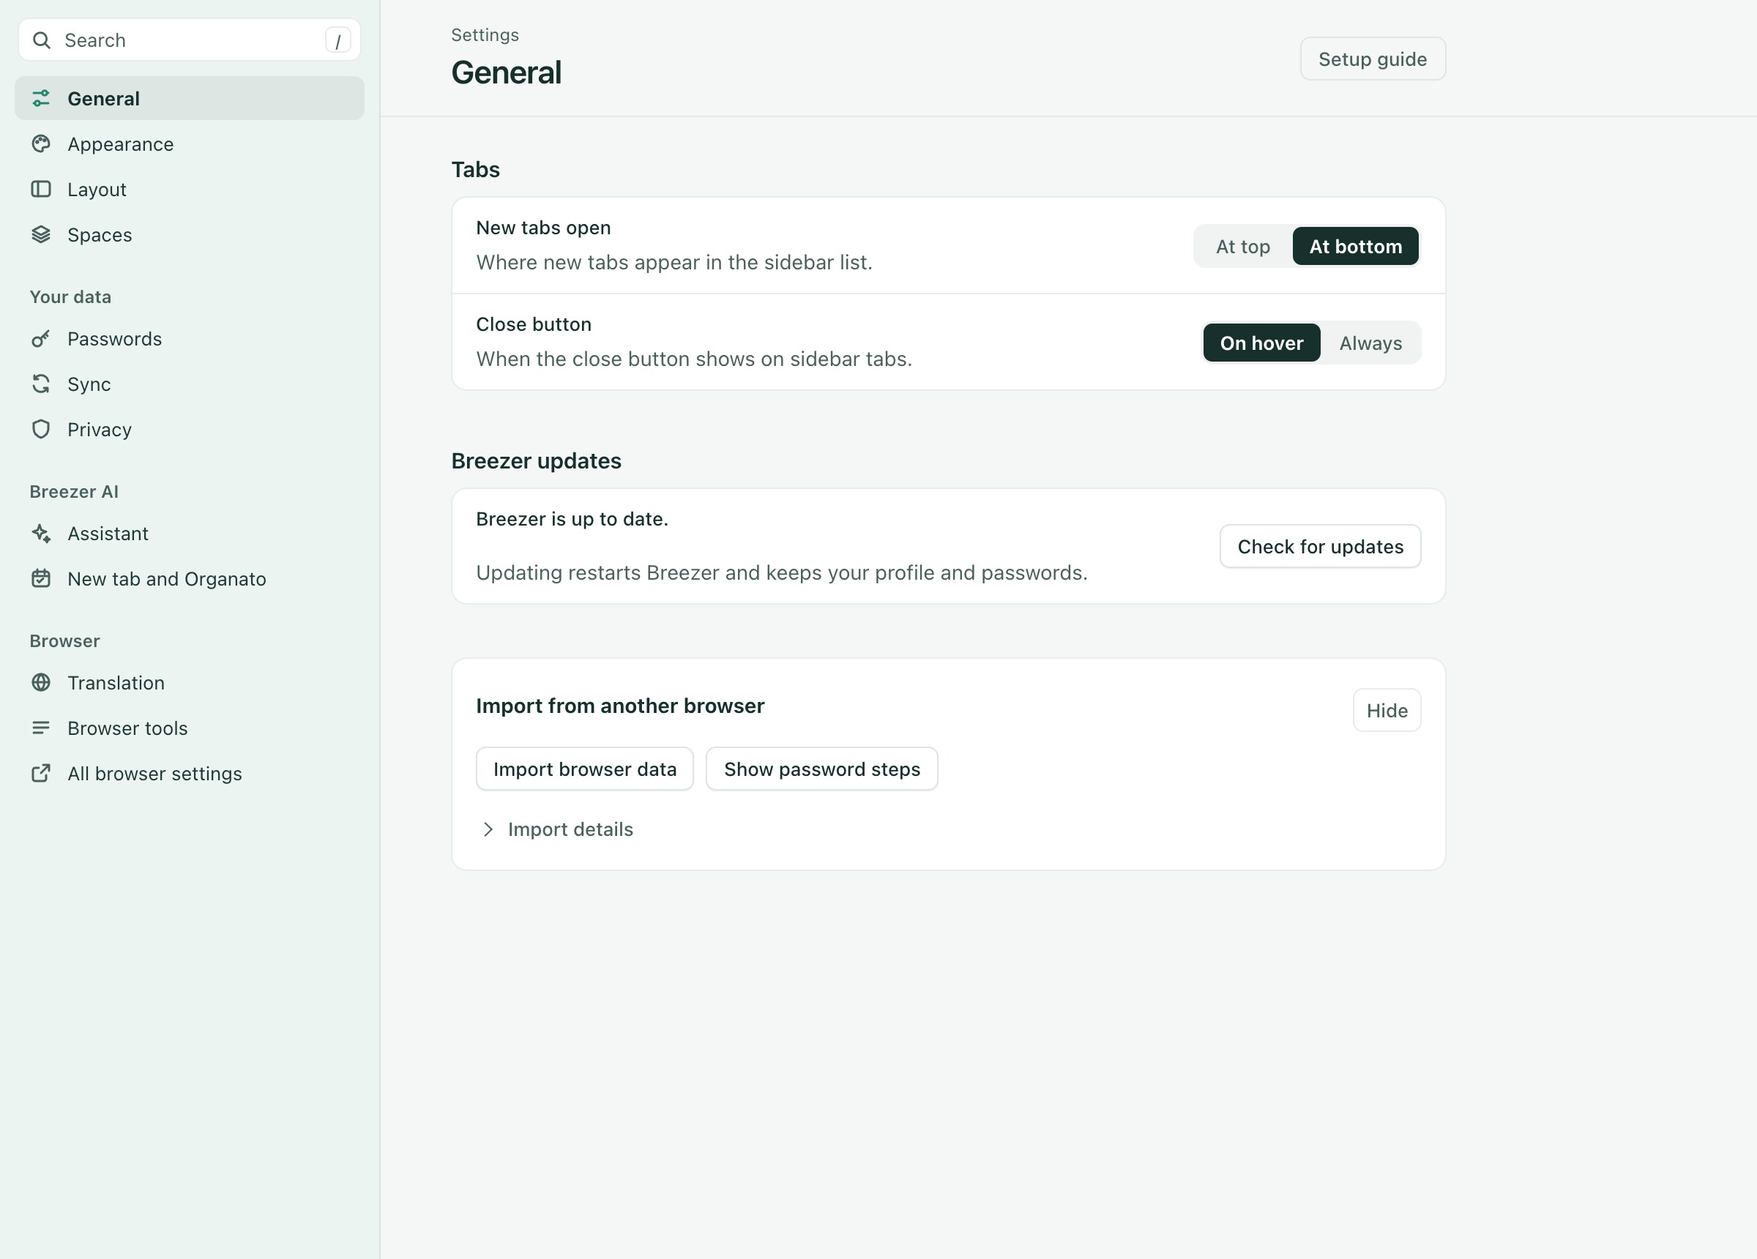
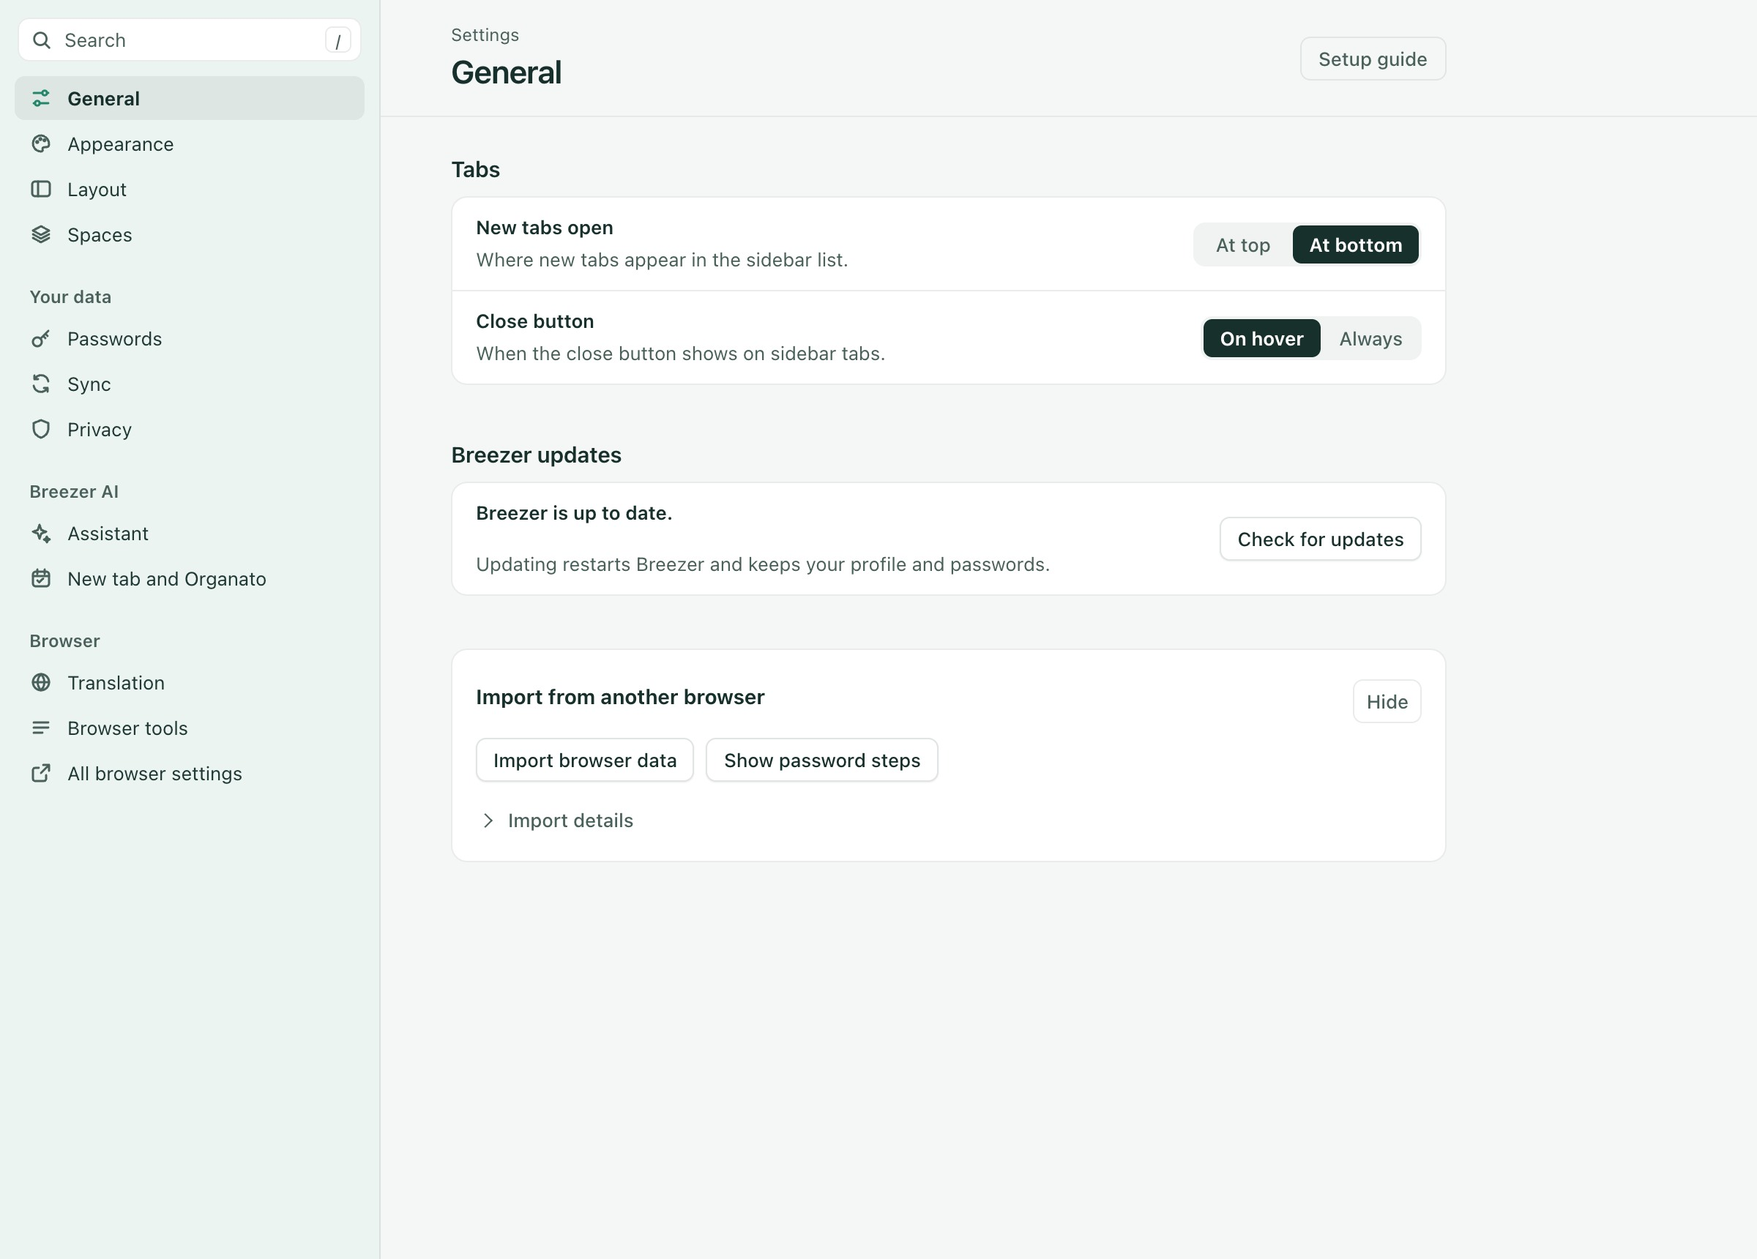
Refine setup, narrow layouts, and release details

diff --git a/features/ai/extension/panel.css b/features/ai/extension/panel.css
@@ -741,8 +741,8 @@ h1 {
   white-space: nowrap;
 }
 
-.control-state { flex: none; width: 23px; height: 14px; padding: 2px; border: 1px solid var(--muted); border-radius: 20px; }
-.control-state::before { content: ""; display: block; width: 8px; height: 8px; border-radius: 50%; background: var(--muted); }
+.control-state { flex: none; width: 27px; height: 16px; padding: 2px; border: 1px solid var(--muted); border-radius: 20px; }
+.control-state::before { content: ""; display: block; width: 10px; height: 10px; border-radius: 50%; background: var(--muted); }
 .control-toggle[aria-pressed=true] .control-state { border-color: var(--accent); background: var(--accent); }
 .control-toggle[aria-pressed=true] .control-state::before { margin-left: auto; background: var(--on-accent); }
 
@@ -750,8 +750,8 @@ h1 {
   background: var(--tint);
   color: var(--accent-ink);
 }
-.control-tip { position: absolute; bottom: calc(100% + 8px); left: 8px; z-index: 6; width: 210px; max-width: calc(100% - 16px); padding: 8px 10px; border-radius: 7px; background: var(--ink); color: var(--canvas); font-size: 12px; line-height: 1.4; font-weight: 400; text-align: left; white-space: normal; pointer-events: none; opacity: 0; visibility: hidden; transition: opacity 100ms ease, visibility 0s; }
-.control-toggle:not([data-tip-dismissed]):is(:hover, :focus-visible) .control-tip { opacity: 1; visibility: visible; transition-delay: 300ms; }
+.control-tip { position: absolute; bottom: calc(100% + 8px); left: 8px; z-index: 6; width: 210px; max-width: calc(100% - 16px); padding: 8px 10px; border-radius: 7px; background: var(--ink); color: var(--canvas); font-size: 12px; line-height: 1.4; font-weight: 400; text-align: left; white-space: normal; pointer-events: none; visibility: hidden; transition: visibility 0s; }
+.control-toggle:not([data-tip-dismissed]):is(:hover, :focus-visible) .control-tip { visibility: visible; transition-delay: 300ms; }
 .control-toggle:not([data-tip-dismissed]):focus-visible .control-tip { transition-delay: 0s; }
 .control-tip::after { content: ""; position: absolute; width: 8px; height: 8px; background: inherit; bottom: -4px; left: calc(var(--tip-pointer, 50%) - 4px); transform: rotate(45deg); }
 
@@ -809,7 +809,7 @@ h1 {
 .model-preferences > summary:focus-visible { outline-offset: -2px; }
 .model-menu:has(.model-preferences[open]) :is(#refresh-models, #model-options) { display: none; }
 .model-menu:has(.model-preferences[open] #speed-note:not([hidden])) .menu-note { display: none; }
-.panel:has(.model-menu:not([hidden])) .suggestions { visibility: hidden; }
+.panel[data-account-state="ready"]:has(.model-menu:not([hidden])) .welcome { visibility: hidden; }
 .inference-model { grid-column: 1 / -1; margin: 0 0 2px; color: var(--ink); font-size: 15px; line-height: 1.4; font-weight: 600; }
 .model-preferences > summary:hover { background: var(--hover); color: var(--ink); }
 .model-settings { display: grid; grid-template-columns: repeat(auto-fit, minmax(110px, 1fr)); gap: 10px; padding: 8px 5px 4px; }
@@ -1178,7 +1178,7 @@ dialog .privacy-note {
 .research-chips { display:flex; flex-wrap:wrap; gap:6px; margin:0 4px 8px; }
 .research-chips:empty { display:none; }
 .research-chip { max-width:100%; overflow:hidden; text-overflow:ellipsis; white-space:nowrap; border:0; border-radius:7px; padding:4px 8px; background:var(--tint); color:inherit; font:inherit; font-size:12px; cursor:pointer; }
-.research-options { display:flex; flex-direction:column; gap:4px; max-height:min(480px, calc(100dvh - 320px)); overflow:auto; scrollbar-width:thin; scrollbar-gutter:stable; scrollbar-color:var(--muted) var(--tint); }
+.research-options { display:flex; flex-direction:column; gap:4px; min-height:88px; max-height:min(480px, calc(100dvh - 235px)); padding-block:4px; border-block:1px solid var(--hairline); overflow:auto; scrollbar-width:thin; scrollbar-gutter:stable; scrollbar-color:var(--muted) var(--tint); }
 .research-option { display:flex; align-items:center; gap:10px; margin:0; padding:8px; border-radius:8px; cursor:pointer; }
 .research-option:has(input:checked) { background:var(--tint); }
 .research-option:has(input:disabled) { color:var(--muted); cursor:default; }

diff --git a/tests/ai/fixtures/workspace-main-port/main-workspace.css b/tests/ai/fixtures/workspace-main-port/main-workspace.css
@@ -133,8 +133,8 @@ svg { fill: none; stroke: currentColor; stroke-width: 1.5; stroke-linecap: round
 .favorites {
   display: grid;
   grid-template-columns: repeat(4, minmax(0, 1fr));
-  gap: 8px;
-  padding: 10px 10px 6px;
+  gap: 6px;
+  padding: 10px 8px 6px;
 }
 
 .tile {
@@ -146,7 +146,7 @@ svg { fill: none; stroke: currentColor; stroke-width: 1.5; stroke-linecap: round
   align-content: center;
   gap: 4px;
   min-width: 0;
-  padding: 6px 4px;
+  padding: 6px 2px;
   border: 1px solid transparent;
   border-radius: var(--radius-card);
   background: color-mix(in srgb, var(--ink) 4%, transparent);
@@ -170,7 +170,7 @@ svg { fill: none; stroke: currentColor; stroke-width: 1.5; stroke-linecap: round
   border-radius: 50%;
   background: var(--muted);
 }
-.tile:focus-visible { outline-offset: 2px; }
+.tile:focus-visible { outline-color: var(--ink); outline-offset: 2px; }
 .tile .favicon { width: 20px; height: 20px; font-size: 11px; border-radius: 5px; background: color-mix(in srgb, var(--accent) 13%, transparent); color: var(--ink); }
 .tile .favicon:has(img) { background: none; }
 .tile .favicon img { width: 20px; height: 20px; }
@@ -758,7 +758,7 @@ body.route-settings {
 .empty-state { margin: 0; padding: 18px 0; color: var(--muted); }
 .context-settings .setting-row { flex-wrap: nowrap; }
 .setting-group .setting-label > span, .setting-group .setting-label > label,
-.setting-group label.setting-label { font-weight: 500; }
+.setting-group label.setting-label { font-weight: 600; }
 .setting-group .setting-label small { margin-top: 2px; max-width: 62ch; }
 /* Loose content from older components, padded as one block. */
 .setting-group.panel { padding: 6px 16px 14px; }
@@ -833,7 +833,7 @@ body.route-settings {
 .setting-row + .setting-row { border-top: 1px solid var(--line); }
 .setting-label { display: flex; flex-direction: column; gap: 2px; min-width: 0; }
 .setting-label > :first-child { font-weight: 500; }
-.setting-label small { color: var(--muted); font-size: 14px; line-height: 21px; }
+.setting-label small { color: var(--muted); font-size: 13px; line-height: 19px; }
 .muted-row { opacity: 0.55; }
 
 .segmented {
@@ -854,7 +854,7 @@ body.route-settings {
   font-weight: 500;
 }
 .segmented [role="radio"]:hover { color: var(--ink); }
-.segmented [role="radio"][aria-checked="true"] { background: var(--ink); color: var(--set-group); font-weight: 650; }
+.segmented [role="radio"][aria-checked="true"] { background: var(--ink); color: var(--set-group, var(--canvas)); font-weight: 650; }
 [role="radio"][aria-disabled="true"], .switch[aria-disabled="true"] { opacity: 0.5; }
 
 .switch {
@@ -958,6 +958,7 @@ body.route-settings {
 .status-line { display: flex; align-items: center; gap: 8px; margin: 14px 0 0; color: var(--muted); line-height: 19px; max-width: 64ch; }
 .status-line:empty { margin: 0; }
 .update-status { margin: 0; font-size: 13px; font-weight: 650; color: var(--ink); }
+.update-row:has(.update-status[data-state="error"]) small { display: none; }
 #organato-settings:has(#organato-connect:disabled) #organato-status::before,
 #update-settings:has(#update-check:disabled) #update-status::before {
   content: "";

diff --git a/features/ai/extension/settings.css b/features/ai/extension/settings.css
@@ -194,7 +194,7 @@ body.route-settings {
 .empty-state { margin: 0; padding: 18px 0; color: var(--muted); }
 .context-settings .setting-row { flex-wrap: nowrap; }
 .setting-group .setting-label > span, .setting-group .setting-label > label,
-.setting-group label.setting-label { font-weight: 500; }
+.setting-group label.setting-label { font-weight: 600; }
 .setting-group .setting-label small { margin-top: 2px; max-width: 62ch; }
 /* Loose content from older components, padded as one block. */
 .setting-group.panel { padding: 6px 16px 14px; }
@@ -269,7 +269,7 @@ body.route-settings {
 .setting-row + .setting-row { border-top: 1px solid var(--line); }
 .setting-label { display: flex; flex-direction: column; gap: 2px; min-width: 0; }
 .setting-label > :first-child { font-weight: 500; }
-.setting-label small { color: var(--muted); font-size: 14px; line-height: 21px; }
+.setting-label small { color: var(--muted); font-size: 13px; line-height: 19px; }
 .muted-row { opacity: 0.55; }
 
 .segmented {
@@ -290,7 +290,7 @@ body.route-settings {
   font-weight: 500;
 }
 .segmented [role="radio"]:hover { color: var(--ink); }
-.segmented [role="radio"][aria-checked="true"] { background: var(--ink); color: var(--set-group); font-weight: 650; }
+.segmented [role="radio"][aria-checked="true"] { background: var(--ink); color: var(--set-group, var(--canvas)); font-weight: 650; }
 [role="radio"][aria-disabled="true"], .switch[aria-disabled="true"] { opacity: 0.5; }
 
 .switch {
@@ -394,6 +394,7 @@ body.route-settings {
 .status-line { display: flex; align-items: center; gap: 8px; margin: 14px 0 0; color: var(--muted); line-height: 19px; max-width: 64ch; }
 .status-line:empty { margin: 0; }
 .update-status { margin: 0; font-size: 13px; font-weight: 650; color: var(--ink); }
+.update-row:has(.update-status[data-state="error"]) small { display: none; }
 #organato-settings:has(#organato-connect:disabled) #organato-status::before,
 #update-settings:has(#update-check:disabled) #update-status::before {
   content: "";

diff --git a/features/ai/extension/translation.css b/features/ai/extension/translation.css
@@ -41,7 +41,7 @@ button:disabled { opacity: .5; cursor: default; }
 :root[data-scheme="dark"] .primary:not(:disabled) { background: var(--accent); }
 .primary:hover:not(:disabled) { background: color-mix(in srgb, var(--accent) 76%, var(--ink)); }
 :root[data-scheme="dark"] .primary:hover:not(:disabled) { background: color-mix(in srgb, var(--accent) 88%, var(--ink)); }
-:root .primary:disabled { background: var(--hover); color: var(--muted); border-color: transparent; opacity: .65; }
+:root .primary:disabled { background: var(--hover); color: var(--muted); border-color: var(--line); opacity: 1; }
 #status { min-height: 21px; margin: 16px 0 0; overflow-wrap: anywhere; font-size: 14px; }
 #status[data-state="error"] { padding: 10px 12px; border: 1px solid var(--danger-border); border-radius: 8px; background: var(--danger-surface); color: var(--danger); }
 .sharing-details { margin: 16px 0 0 26px; color: var(--muted); font-size: 14px; }
@@ -53,7 +53,7 @@ button:disabled { opacity: .5; cursor: default; }
 @media (max-width: 360px) { .languages { grid-template-columns: minmax(0, 1.15fr) minmax(0, 1fr); gap: 8px; } .languages select { padding-right: 24px; } }
 @media (max-width: 320px) { .languages { grid-template-columns: 1fr; gap: 16px; } }
 .settings-link { margin-top: 20px; color: var(--muted); padding: 0; border: 0; background: none; text-decoration: underline; }
-#languages.reload { min-height: 32px; padding: 4px 0; border: 0; background: none; color: var(--muted); font-size: 13px; text-decoration: underline; }
+#languages.reload { min-height: 32px; padding: 4px 0; border: 0; background: none; color: var(--ink); font-size: 13px; text-decoration: underline; }
 #languages.reload:hover:not(:disabled) { color: var(--ink); }
 :focus-visible { outline: 2px solid var(--focus); outline-offset: 3px; }
 @media (forced-colors: active) { #dynamic { appearance: auto; width: 16px; height: 16px; padding: 0; } #dynamic::before { content: none; } }

diff --git a/features/ai/extension/newtab.css b/features/ai/extension/newtab.css
@@ -451,12 +451,14 @@ a.item-title:hover { text-decoration-color: currentColor; }
 @media (max-width: 560px) {
   .sites { grid-template-columns: repeat(3, minmax(0, 1fr)); }
   .sites { row-gap: 4px; }
-  .site { min-height: 72px; }
-  .site-icon { width: 40px; height: 40px; border-radius: 11px; }
-  .site-link { gap: 4px; padding-block: 6px 4px; }
+  .site { min-height: 66px; }
+  .site-icon { width: 36px; height: 36px; border-radius: 10px; }
+  .site-link { gap: 4px; padding-block: 5px 3px; }
   .today { text-align: center; }
   .sites > .site-add:only-child { grid-column: 1 / -1; justify-self: center; }
-  .sky { --sky-top: clamp(32px, 6vh, 48px); --date-gap: 16px; --date-lines: 2; --shortcuts-height: 320px; }
+  .sky { --sky-top: 56px; --date-gap: 16px; --date-lines: 2; --shortcuts-height: 302px; }
+  .organato-head { flex-direction: column; align-items: flex-start; gap: 6px; }
+  .agenda-actions .refresh { padding-left: 0; }
 }
 #refresh:disabled { opacity: .5; cursor: default; }
 
@@ -484,4 +486,6 @@ a.item-title:hover { text-decoration-color: currentColor; }
 :root[data-artwork="on"] :is(.sky, .sheet) { position: relative; z-index: 2; }
 :root[data-artwork="on"] .settings-link { z-index: 3; }
 :root[data-artwork="on"] .today { text-shadow: 0 1px 14px color-mix(in srgb, var(--canvas) 80%, transparent); }
+:root[data-artwork="on"] .site:not(.placeholder) .site-name { padding-inline: 4px; border-radius: 4px; background: var(--raised); }
+:root[data-artwork="on"] .site-add .site-icon { background: var(--raised); }
 @media (forced-colors: active) { .theme-image, .theme-artwork, .theme-first-frame, :root[data-artwork="on"] body::before { display: none; } }

diff --git a/features/ai/extension/whats-new.html b/features/ai/extension/whats-new.html
@@ -5,7 +5,7 @@
   <meta name="viewport" content="width=device-width,initial-scale=1">
   <meta name="color-scheme" content="light">
   <title>What's new in Breezer</title>
-  <link rel="stylesheet" href="whats-new.css?v=1.3.1">
+  <link rel="stylesheet" href="whats-new.css?v=1.3.5">
 </head>
 <body>
   <svg class="grain" aria-hidden="true" focusable="false"><filter id="grain"><feTurbulence type="fractalNoise" baseFrequency="0.85" numOctaves="2" stitchTiles="stitch"/><feColorMatrix values="0 0 0 0 0.25  0 0 0 0 0.2  0 0 0 0 0.12  0 0 0 0.55 0"/></filter><rect width="100%" height="100%" filter="url(#grain)"/></svg>
@@ -23,11 +23,12 @@
         </defs>
         <path class="breeze-line" pathLength="1" d="M6 78 C 120 30, 210 112, 330 66 S 520 14, 560 54 C 590 84, 552 112, 526 92 C 506 76, 528 46, 566 50 C 596 54, 618 70, 634 64"/>
       </svg>
-      <p class="lede">A new logo and breezer:// pages, folder colors you pick yourself, an assistant that can read your tab and memory counts, and themes made from a sentence or a picture.</p>
+      <p class="lede">Search from New Tab, find favorites by name, and see when Breezer AI can control a page.</p>
       <div class="actions">
         <button class="button primary" type="button" data-action="continue">Continue browsing</button>
         <a class="button secondary" href="workspace.html#/settings">Open Settings</a>
       </div>
+      <p><a href="#patch-135">What changed in 1.3.5</a></p>
     </header>
 
     <nav class="page-index" aria-label="On this page"><a href="#features-title">Highlights</a><a href="#patch-131">1.3.1</a><a href="#patch-135">1.3.5</a><a href="#verification-title">Known limits</a></nav>

diff --git a/features/ai/extension/shortcut-add.js b/features/ai/extension/shortcut-add.js
@@ -5,6 +5,7 @@ export function installShortcutAdder({ api, root, preferences, update }) {
   const input = root.getElementById('shortcut-add-input');
   const list = root.getElementById('shortcut-add-tabs');
   const error = root.getElementById('shortcut-add-error');
+  const status = root.getElementById('shortcut-status');
   const submit = form.querySelector('[type=submit]');
   let tabs = [], shown = [], active = -1, saving = false, revision = 0;
   const focusTile = () => root.querySelector('.site-add-button')?.focus();
@@ -37,7 +38,7 @@ export function installShortcutAdder({ api, root, preferences, update }) {
       await preferences.add({ url, title: site?.title });
       await update();
       form.hidePopover(); focusTile();
-      root.getElementById('shortcut-status').textContent = 'Shortcut added.';
+      status.textContent = 'Shortcut added.';
     } catch (problem) {
       error.textContent = problem.message || 'Could not add shortcut. Try again.';
       error.hidden = false; input.setAttribute('aria-invalid', 'true'); input.focus();
@@ -45,6 +46,7 @@ export function installShortcutAdder({ api, root, preferences, update }) {
   };
   form.addEventListener('beforetoggle', event => {
     if (event.newState !== 'open') return;
+    if (status.textContent === 'Shortcut added.') status.textContent = '';
     input.value = ''; error.hidden = true; input.removeAttribute('aria-invalid');
     tabs = []; paint();
   });

diff --git a/features/ai/extension/workspace.css b/features/ai/extension/workspace.css
@@ -132,8 +132,8 @@ svg { fill: none; stroke: currentColor; stroke-width: 1.5; stroke-linecap: round
 .favorites {
   display: grid;
   grid-template-columns: repeat(4, minmax(0, 1fr));
-  gap: 8px;
-  padding: 10px 10px 6px;
+  gap: 6px;
+  padding: 10px 8px 6px;
 }
 
 .tile {
@@ -145,7 +145,7 @@ svg { fill: none; stroke: currentColor; stroke-width: 1.5; stroke-linecap: round
   align-content: center;
   gap: 4px;
   min-width: 0;
-  padding: 6px 4px;
+  padding: 6px 2px;
   border: 1px solid transparent;
   border-radius: var(--radius-card);
   background: color-mix(in srgb, var(--ink) 4%, transparent);
@@ -169,7 +169,7 @@ svg { fill: none; stroke: currentColor; stroke-width: 1.5; stroke-linecap: round
   border-radius: 50%;
   background: var(--muted);
 }
-.tile:focus-visible { outline-offset: 2px; }
+.tile:focus-visible { outline-color: var(--ink); outline-offset: 2px; }
 .tile .favicon { width: 20px; height: 20px; font-size: 11px; border-radius: 5px; background: color-mix(in srgb, var(--accent) 13%, transparent); color: var(--ink); }
 .tile .favicon:has(img) { background: none; }
 .tile .favicon img { width: 20px; height: 20px; }

diff --git a/features/ai/extension/onboarding.css b/features/ai/extension/onboarding.css
@@ -417,9 +417,13 @@ body.route-welcome { overflow: auto; background: var(--air); }
   .wl-step h1 { font-size: 30px; line-height: 36px; }
 }
 @media (max-width: 560px) {
-  .mini { width: 200px; max-width: 70%; max-height: none; }
+  .mini { order: 0; width: 180px; max-width: 65%; max-height: none; }
+  .wl-stage:has(.wl-step[data-step="welcome"]:not([hidden])) .mini { order: -1; }
   .mini-frame { width: 220%; height: 220%; scale: .454545; transform-origin: top left; }
-  .wl-stage { gap: 16px; padding: 12px 4px; align-content: start; align-items: start; }
+  .wl-stage { gap: 14px; padding: 14px 4px 24px; align-content: start; align-items: start; }
+  .wl-copy { padding-top: 0; }
+  .wl-lede { margin-bottom: 18px; }
+  .wl-choice-art { aspect-ratio: 2; }
   .wl-choices, .wl-swatches { grid-template-columns: 1fr 1fr; }
   .wl-nav { grid-template-columns: auto minmax(0, 1fr) auto; gap: 10px; }
   .wl-nav .wl-progress { justify-self: center; gap: 3px; }

diff --git a/features/ai/extension/whats-new.css b/features/ai/extension/whats-new.css
@@ -914,6 +914,11 @@ body {
   .story-table:not(.story-code-table) tbody th, .story-table:not(.story-code-table) tbody td { display: block; width: auto; padding: 0; border: 0; text-align: left; }
   .story-table:not(.story-code-table) tbody th { grid-column: 1 / -1; font-weight: 600; }
 }
+@media (max-width: 360px) {
+  .story-code-table { table-layout: fixed; }
+  .story-code-table th:first-child { width: 42%; }
+  .story-code-table :is(th, td) { white-space: normal; overflow-wrap: anywhere; }
+}
 .benchmark-story-footer { display: flex; flex-wrap: wrap; gap: 12px; padding: 0 0 40px; }
 .patch-copy > .patch-limit { padding: 0; margin-top: 18px; background: none; box-shadow: none; font-size: .875rem; line-height: 1.6; }
 .patch-lead > .plate { max-width: 340px; justify-self: center; padding: 8px; background: none; box-shadow: none; }

diff --git a/features/ai/extension/workspace.html b/features/ai/extension/workspace.html
@@ -420,7 +420,7 @@
             <span class="wl-custom"><input id="wl-custom-color" type="color" value="#23866b"><button id="wl-custom-apply" class="button" type="button">Use this color</button></span>
           </div>
           <div class="setting-row wl-row">
-            <div class="setting-label"><span id="wl-mode-label">Appearance</span><small>System follows your device.</small></div>
+            <div class="setting-label"><span id="wl-mode-label">Appearance</span><small>Choose light, dark, or match your device.</small></div>
             <div class="segmented" role="radiogroup" aria-labelledby="wl-mode-label" data-field="colorMode">
               <button type="button" role="radio" data-value="system">System</button>
               <button type="button" role="radio" data-value="light">Light</button>
